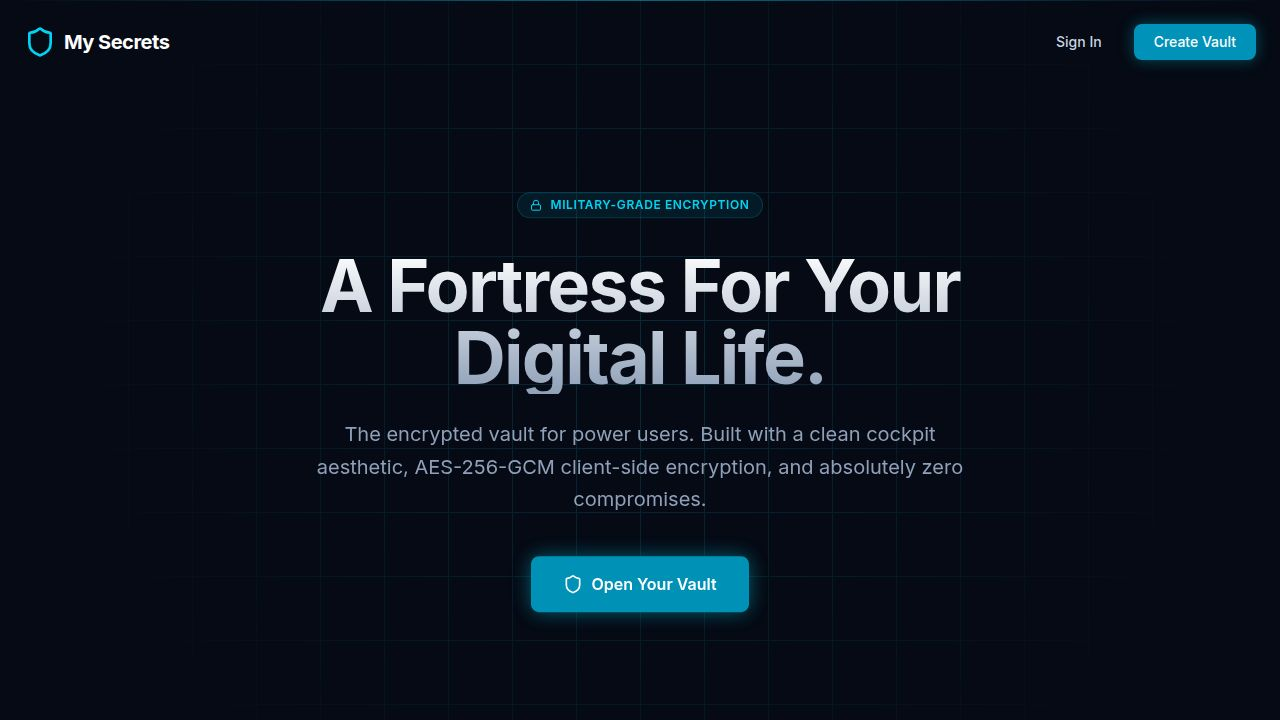
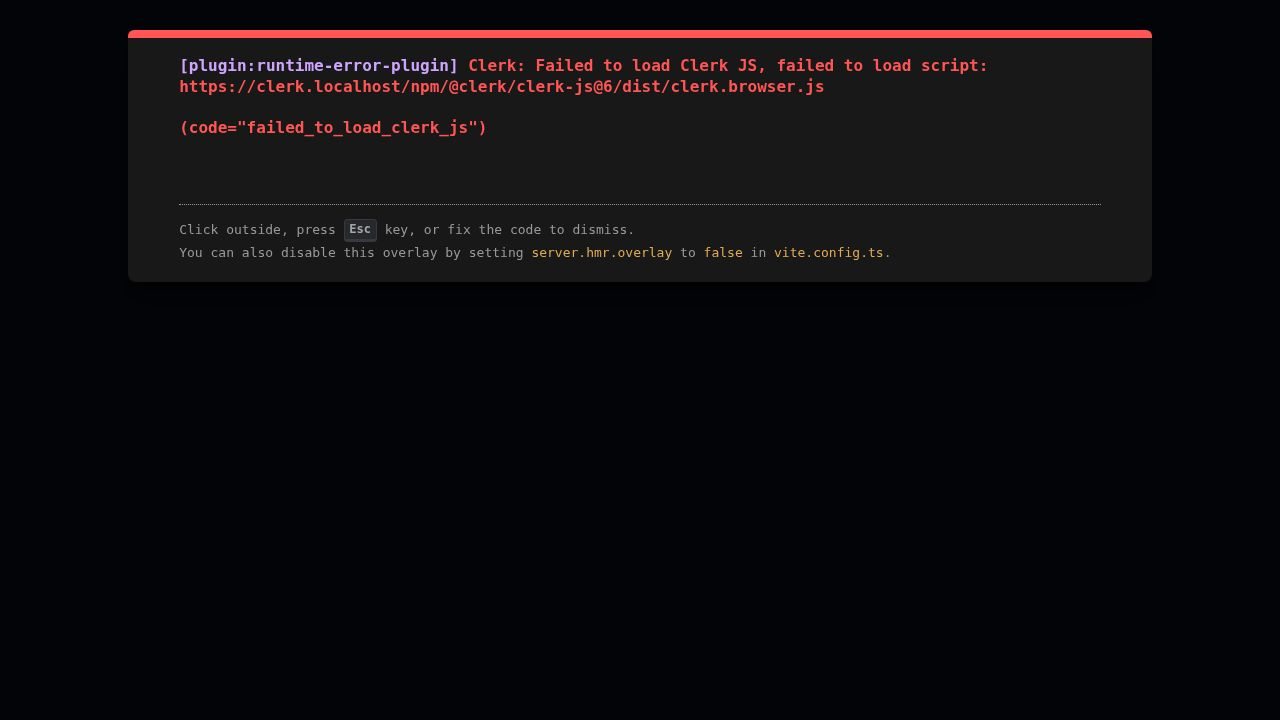
Update build configuration for improved deployment
Adjust vite.config.ts to use default port and modify vercel.json to utilize build.env for environment variables.

Replit-Commit-Author: Agent
Replit-Commit-Session-Id: aa479a12-83a7-4c45-a291-d9546abcdfec
Replit-Commit-Checkpoint-Type: full_checkpoint
Replit-Commit-Event-Id: 738e2fa9-b5b3-49ee-9236-f5363a3c2481
Replit-Commit-Screenshot-Url: https://storage.googleapis.com/screenshot-production-us-central1/10bcdb0c-5678-4423-af5a-cc8845fb3710/aa479a12-83a7-4c45-a291-d9546abcdfec/XLcabF5
Replit-Helium-Checkpoint-Created: true

diff --git a/artifacts/my-secrets/vite.config.ts b/artifacts/my-secrets/vite.config.ts
@@ -4,16 +4,8 @@ import tailwindcss from "@tailwindcss/vite";
 import path from "path";
 import runtimeErrorOverlay from "@replit/vite-plugin-runtime-error-modal";
 
-const isProduction = process.env.NODE_ENV === "production";
-
-const rawPort = process.env.PORT;
-const port = rawPort ? Number(rawPort) : 3000;
-
+const port = Number(process.env.PORT ?? "3000");
 const basePath = process.env.BASE_PATH ?? "/";
-
-if (!isProduction && !process.env.PORT) {
-  console.warn("PORT environment variable is not set, defaulting to 3000");
-}
 
 export default defineConfig({
   base: basePath,